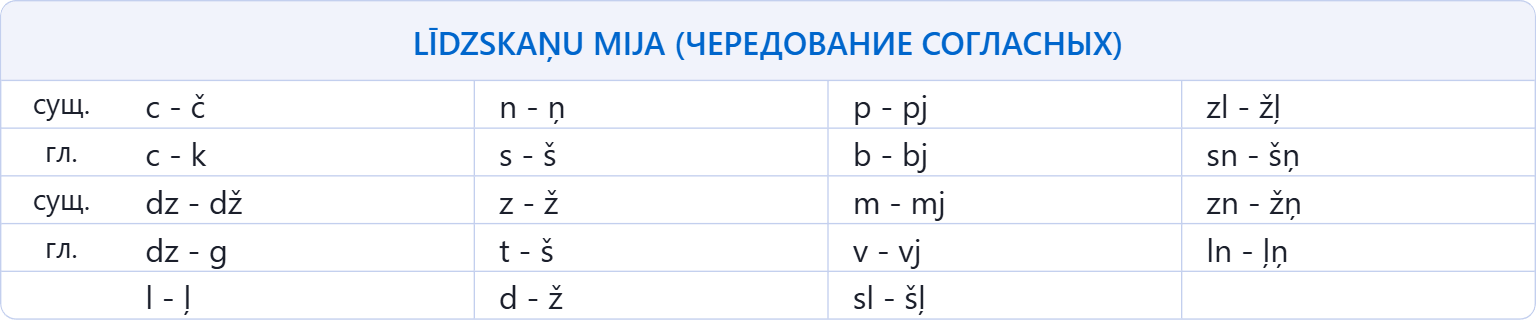
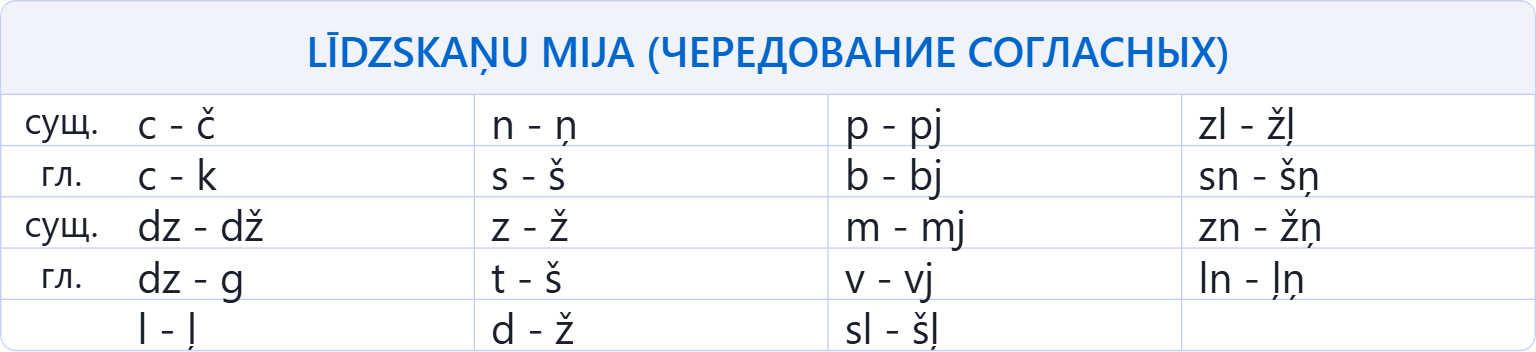
bigger one table & add favorite links

diff --git a/wp-content/themes/lbp/style.css b/wp-content/themes/lbp/style.css
@@ -1147,6 +1147,11 @@ body:has(.galleries.horizontal-mode) {
     margin-right: 5px;
 }
 
+.useful-links a.highlighted-link.download-link::before {
+    content: '💾 ';
+    font-size: 1.2em;
+}
+
 .useful-links a.highlighted-link:hover {
     color: #a02761;
     border-left-color: #d63384;

diff --git a/wp-content/themes/lbp/template-parts/lang-content.php b/wp-content/themes/lbp/template-parts/lang-content.php
@@ -19,13 +19,15 @@ wp_nav_menu(array(
 
 <div class="useful-links <?=$lang !== 'LV'?'d-none':''?>">
     <h2>Полезные ссылки</h2>
+    <a href="https://elaipa.lv/Home/A1" target="_blank" class="highlighted-link">Elaipa (лучшие интерактивные задания с проверкой)</a>
+    <a href="<?php echo esc_url(get_stylesheet_directory_uri() . '/assets/progress_latvieshu.xlsx'); ?>" download class="highlighted-link download-link">Скачать: Ексель файл для самоконтроля прогресса на сайте Elaipa (можно портировать в Google таблицы)</a>
+    <a href="https://ru.glosbe.com/%D1%81%D0%BB%D0%BE%D0%B2%D0%B0%D1%80%D1%8C-%D0%BB%D0%B0%D1%82%D1%8B%D1%88%D1%81%D0%BA%D0%B8%D0%B9-%D1%80%D1%83%D1%81%D1%81%D0%BA%D0%B8%D0%B9" target="_blank" class="highlighted-link">Словарь (большой) с примерами использования слов и переводом</a>
     <a href="https://maciunmacies.valoda.lv/16-un-vairak" target="_blank" class="highlighted-link">Главный сайт где всё! (примеры экзаменов, озвучка заданий учебника Laipa, ссылки на интерактивные задания)</a>
     <a href="https://www.viaa.gov.lv/lv/parbaudes-programma" target="_blank" class="highlighted-link">Примеры экзаменов - Если нет программы Word, чтобы открыть без багов файлы, то установите LibreOffice</a>
-    <a href="https://elaipa.lv/Home/A1" target="_blank" class="highlighted-link">Elaipa (лучшие интерактивные задания с проверкой)</a>
-    <a href="https://www.gramatika.lv/" target="_blank" class="highlighted-link">Gramatika (чей-то незаконченный сайт по грамматике)</a>
-    <a href="https://www.dokobit.com/lv/" target="_blank" class="highlighted-link">Dokobit - можно подписать документы для подачи заявления на экзамен</a>
-    <a href="https://www.facebook.com/resume.lv.lv/videos/3554350828015245/" target="_blank" class="highlighted-link">Dokobit - видео как подписать!</a>
-    <a href="https://epupa.valoda.lv/" target="_blank">Словарь с примерами использования слов и склонениями!!!</a>
+    <a href="https://www.gramatika.lv/" target="_blank">Gramatika (чей-то незаконченный сайт по грамматике)</a>
+    <a href="https://www.dokobit.com/lv/" target="_blank">Dokobit - можно подписать документы для подачи заявления на экзамен</a>
+    <a href="https://www.facebook.com/resume.lv.lv/videos/3554350828015245/" target="_blank">Dokobit - видео как подписать!</a>
+    <a href="https://epupa.valoda.lv/" target="_blank">Словарь с примерами использования слов и склонениями</a>
     <a href="https://forvo.com/languages/lv/" target="_blank">Словарь с озвучкой</a>
     <a href="https://www.valodukursi.lv/en/language-training-courses-classes-lessons/latvian-for-foreigners" target="_blank">Платный разговорный клуб</a>
     <a href="https://t.me/uaenlv" target="_blank">Бесплатный для беженцев разговорный клуб (как обычный курс с заданиями!)</a>
